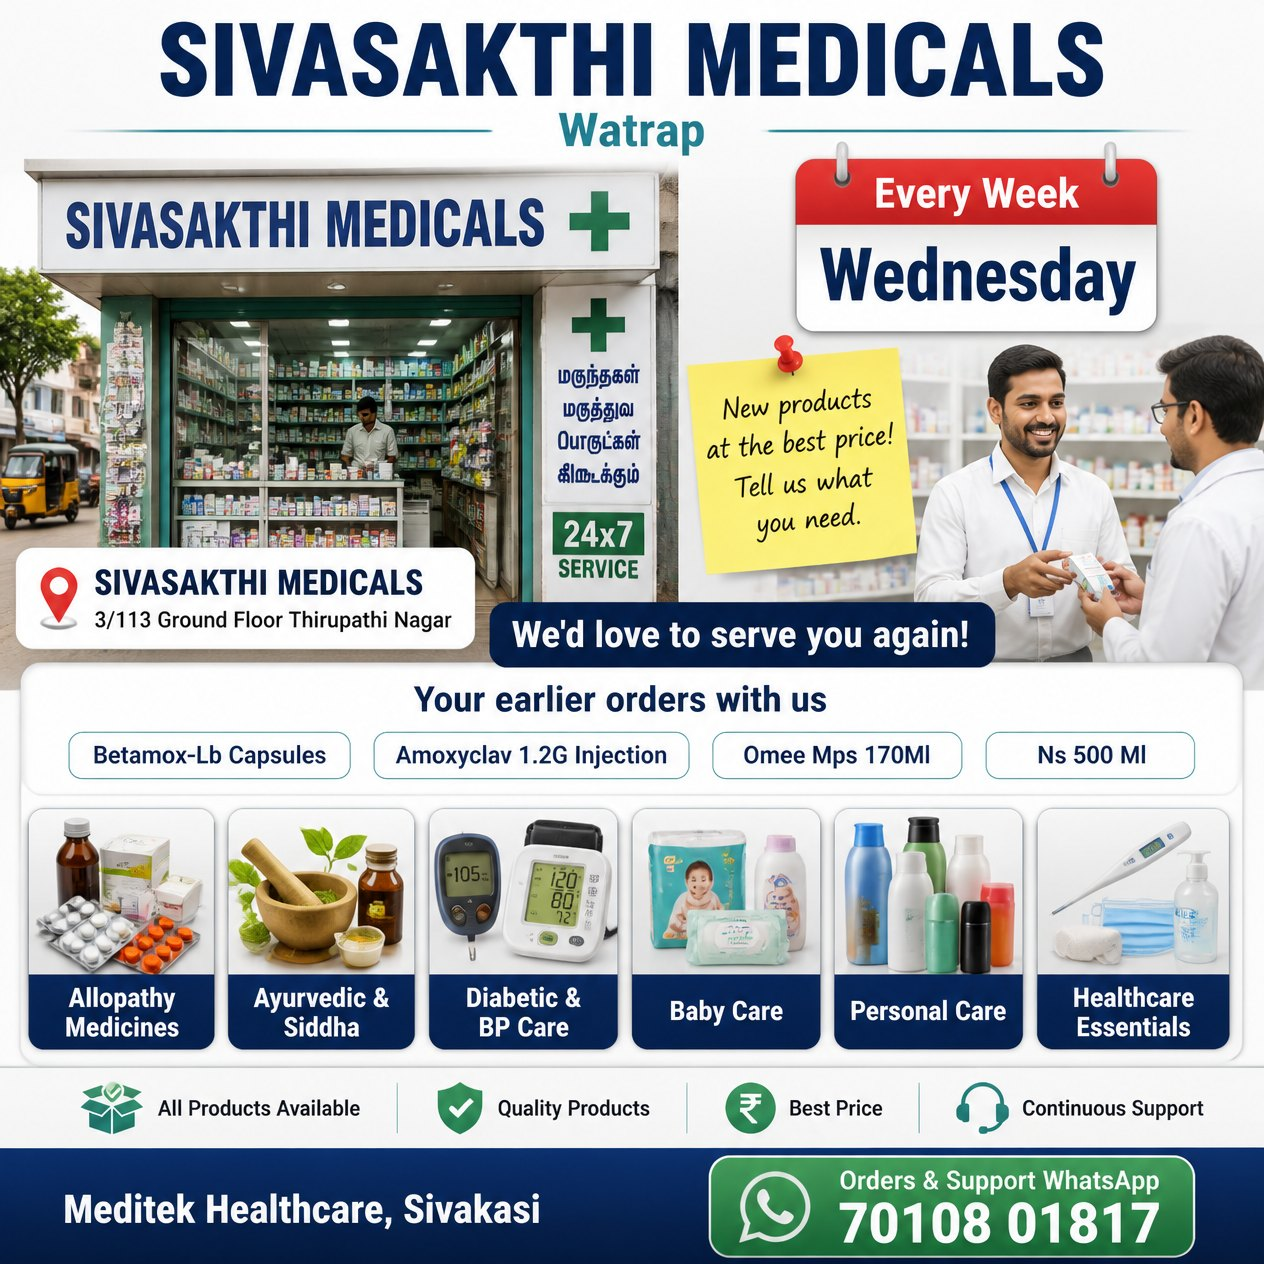
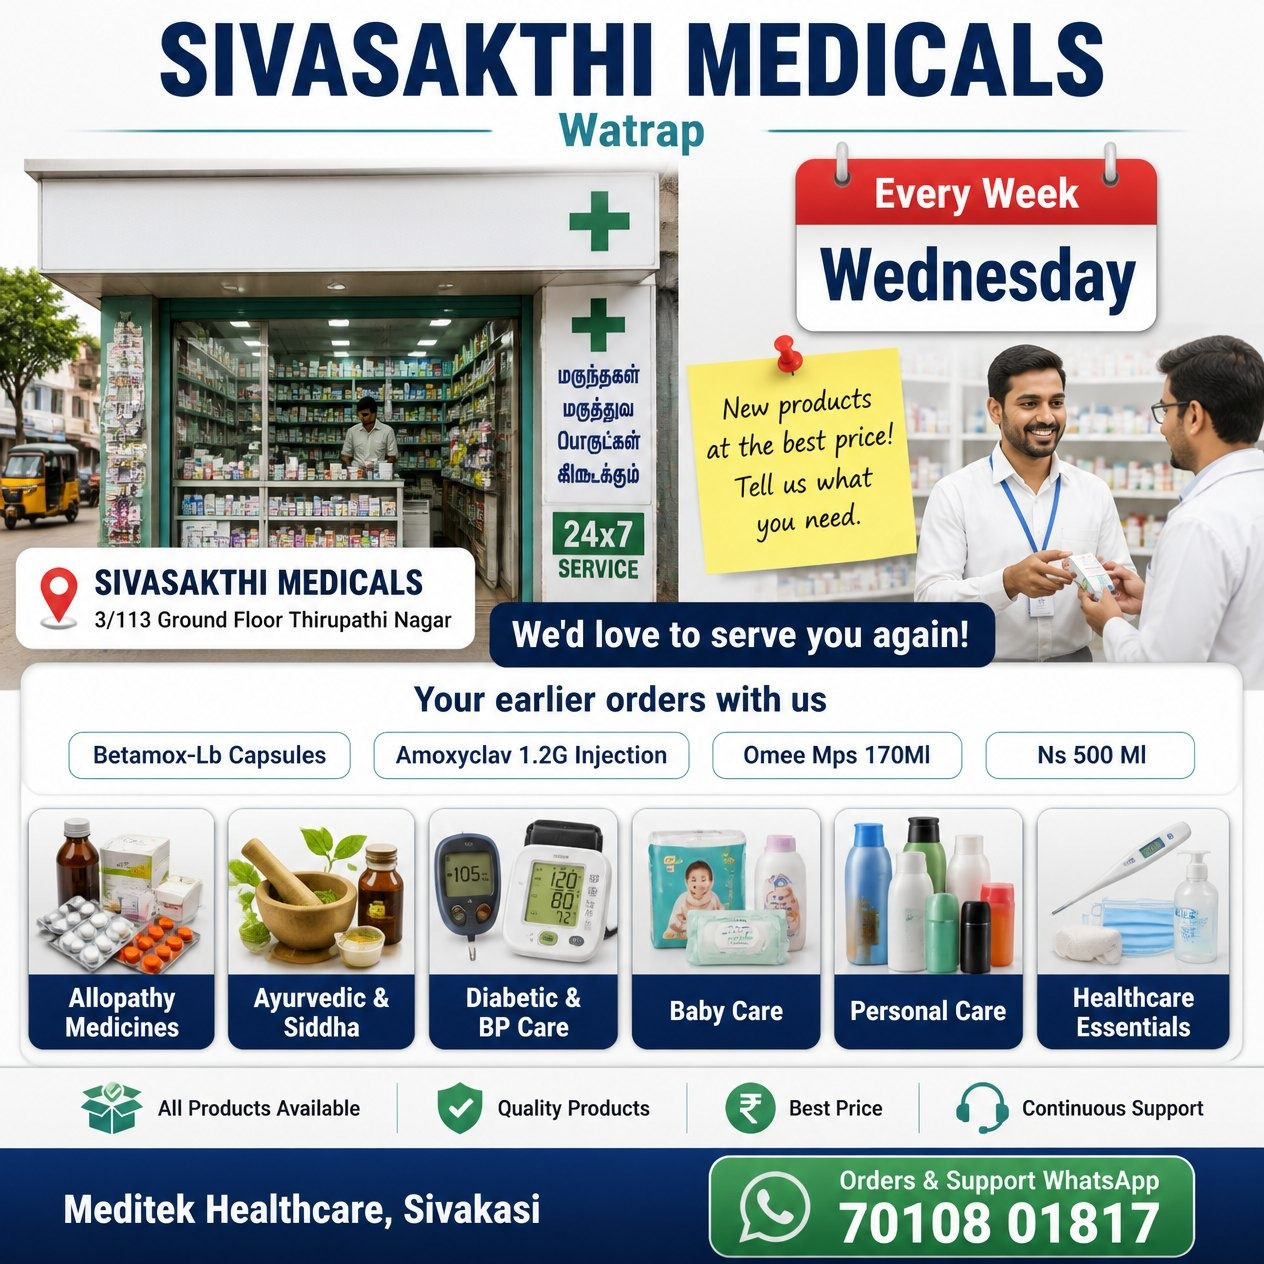
Poster: shop name drawn as a real signboard (raised letters, shadow, board lighting) on blank template boards
Claude-Session: https://claude.ai/code/session_01APWZwNBWcevbUrVLTYNY5a

Changed region(s): [[0.0309, 0.1543, 0.432, 0.216]]

diff --git a/poster.html b/poster.html
@@ -41,19 +41,53 @@ const UP = NAME.toUpperCase(), O = 'Oswald, "Arial Narrow", sans-serif', R = '"R
 const N = '#0b2a5b', TEAL = '#1f8a9a';
 const SPEC = {
   clinic: [[40, 14, 1184, 158, UP, 700, 140, O, N], [470, 166, 324, 56, TOWN, 700, 46, R, TEAL], [836, 296, 282, 66, DAY, 700, 54, R, '#111'],
-           [172, 236, 352, 122, UP, 700, 52, R, N, 'c', '#f2f4f3'], [86, 646, 368, 34, UP, 700, 28, R, N], [86, 684, 380, 24, ADDR, 500, 17, R, '#222', 'l']],
+           [86, 646, 368, 34, UP, 700, 28, R, N], [86, 684, 380, 24, ADDR, 500, 17, R, '#222', 'l']],
   hospital: [[30, 18, 900, 128, UP, 700, 112, O, N], [372, 146, 182, 42, TOWN, 700, 34, R, TEAL], [950, 152, 266, 74, DAY, 700, 56, R, '#111'],
-           [254, 246, 368, 84, UP, 700, 40, R, N], [116, 578, 388, 34, UP, 700, 26, R, N], [116, 614, 396, 26, ADDR, 500, 18, R, '#222', 'l']],
+           [116, 578, 388, 34, UP, 700, 26, R, N], [116, 614, 396, 26, ADDR, 500, 18, R, '#222', 'l']],
   dental: [[40, 12, 1184, 112, UP, 700, 100, O, N], [536, 126, 190, 44, TOWN, 700, 36, R, TEAL], [908, 244, 238, 60, DAY, 700, 46, R, '#111'],
-           [232, 204, 400, 92, UP, 700, 44, R, N], [108, 610, 340, 30, UP, 700, 22, R, N], [108, 644, 392, 24, ADDR, 500, 16, R, '#222', 'l']],
+           [108, 610, 340, 30, UP, 700, 22, R, N], [108, 644, 392, 24, ADDR, 500, 16, R, '#222', 'l']],
   vet: [[40, 8, 1184, 144, UP, 700, 128, O, N], [536, 154, 200, 48, TOWN, 700, 38, R, TEAL], [924, 254, 268, 64, DAY, 700, 50, R, '#111'],
-           [148, 228, 392, 58, UP, 700, 44, R, N], [126, 658, 392, 38, UP, 700, 26, R, N], [126, 700, 400, 22, ADDR, 500, 16, R, '#222', 'l']],
+           [126, 658, 392, 38, UP, 700, 26, R, N], [126, 700, 400, 22, ADDR, 500, 16, R, '#222', 'l']],
   pharmacy: [[60, 12, 1144, 96, UP, 700, 86, O, N], [516, 106, 232, 58, TOWN, 700, 42, R, TEAL], [808, 238, 340, 86, DAY, 700, 68, R, '#111'],
-           [56, 184, 524, 82, UP, 700, 56, O, N], [90, 536, 344, 62, UP, 700, 38, O, N], [90, 604, 370, 28, ADDR, 500, 20, R, '#222', 'l'],
+           [90, 536, 344, 62, UP, 700, 38, O, N], [90, 604, 370, 28, ADDR, 500, 20, R, '#222', 'l'],
            [492, 606, 480, 52, "We'd love to serve you!", 700, 34, R, '#fff'],
            [300, 674, 664, 46, 'Everything your shop needs, under one roof', 700, 32, R, N],
            [20, 720, 1224, 62, 'Tablets & Capsules   ·   Syrups   ·   Injections & IV Fluids   ·   Surgicals', 700, 30, R, N]]
 };
+// storefront signboard (the template photo's board is blank): [x0, y0, x1, y1, face colour, side colour, 2nd-line colour]
+const SIGN = {
+  clinic:   [176, 236, 512, 362, '#0b2a5b', '#061a3a', '#0f7a4f'],
+  pharmacy: [52, 190, 556, 256, '#0b2a5b', '#061a3a', ''],
+  hospital: [250, 240, 640, 335, '#0b2a5b', '#061a3a', '#0f7a4f'],
+  dental:   [240, 190, 616, 302, '#0b2a5b', '#061a3a', '#1f8a9a'],
+  vet:      [142, 226, 540, 316, '#0e6b47', '#07402a', '#0e6b47']
+};
+/* letters made like a real shop board: raised acrylic letters with depth, a soft shadow on the board,
+   a light-from-above face, the board's own lighting over them, and the photo's grain and softness */
+function sign(ctx) {
+  const [x0, y0, x1, y1, face, side, c2] = SIGN[CAT], w = x1 - x0, h = y1 - y0, two = !!(c2 && TOWN);
+  const L = document.createElement('canvas'); L.width = w; L.height = h; const g = L.getContext('2d');
+  const fit = (t, fam, wt, maxH, maxW) => { let s = maxH; g.font = wt + ' ' + s + 'px ' + fam; while (g.measureText(t).width > maxW && s > 10) { s--; g.font = wt + ' ' + s + 'px ' + fam; } return s; };
+  const raised = (t, cy, s, fam, wt, col, dk) => {
+    g.font = wt + ' ' + s + 'px ' + fam; g.textAlign = 'center'; g.textBaseline = 'middle';
+    const d = Math.max(2, Math.round(s / 16)), cx = w / 2;
+    g.save(); g.shadowColor = 'rgba(0,0,0,.38)'; g.shadowBlur = s / 7; g.shadowOffsetX = d * 1.2; g.shadowOffsetY = d * 1.9; g.fillStyle = dk; g.fillText(t, cx + d, cy + d); g.restore();
+    for (let i = d; i > 0; i--) { g.fillStyle = dk; g.fillText(t, cx + i * 0.8, cy + i * 0.9); }
+    g.globalAlpha = .55; g.fillStyle = '#fff'; g.fillText(t, cx - 0.8, cy - 0.8); g.globalAlpha = 1;
+    const gr = g.createLinearGradient(0, cy - s / 2, 0, cy + s / 2); gr.addColorStop(0, col); gr.addColorStop(1, dk); 
+    g.fillStyle = col; g.fillText(t, cx, cy); g.globalAlpha = .35; g.fillStyle = gr; g.fillText(t, cx, cy); g.globalAlpha = 1;
+  };
+  const padX = w * 0.04, s1 = fit(UP, O, 700, two ? h * 0.52 : h * 0.72, w - 2 * padX);
+  if (two) { const s2 = fit(TOWN, R, 700, h * 0.24, w * 0.7); raised(UP, h * 0.37, s1, O, 700, face, side); raised(TOWN, h * 0.79, s2, R, 700, c2, side); }
+  else raised(UP, h * 0.52, s1, O, 700, face, side);
+  // the board's lighting falls on the letters too (brighter at the top, a little darker at the bottom)
+  g.globalCompositeOperation = 'source-atop';
+  const lt = g.createLinearGradient(0, 0, 0, h); lt.addColorStop(0, 'rgba(255,255,255,.10)'); lt.addColorStop(1, 'rgba(0,0,0,.12)'); g.fillStyle = lt; g.fillRect(0, 0, w, h);
+  // the photo's grain
+  const id = g.getImageData(0, 0, w, h), p = id.data; for (let i = 0; i < p.length; i += 4) if (p[i + 3]) { const n = (Math.random() - .5) * 14; p[i] += n; p[i + 1] += n; p[i + 2] += n; }
+  g.putImageData(id, 0, 0); g.globalCompositeOperation = 'source-over';
+  ctx.save(); ctx.filter = 'blur(0.45px)'; ctx.drawImage(L, x0, y0); ctx.restore();
+}
 function bgOf(ctx, x, y, w, h) {             // average colour of the region's border ring
   const px = [], add = d => { for (let i = 0; i < d.length; i += 4) px.push([d[i], d[i + 1], d[i + 2]]); };
   add(ctx.getImageData(x, y, w, 2).data); add(ctx.getImageData(x, y + h - 2, w, 2).data);
@@ -63,6 +97,7 @@ function bgOf(ctx, x, y, w, h) {             // average colour of the region's b
 }
 function draw(img) {
   const cv = document.getElementById('cv'), ctx = cv.getContext('2d'); ctx.drawImage(img, 0, 0, 1264, 1264);
+  sign(ctx);
   const regs = SPEC[CAT], bgs = regs.map(r => bgOf(ctx, r[0], r[1], r[2], r[3]));
   regs.forEach((r, i) => {
     const [x, y, w, h, t, wt, max, fam, col, al, fill] = r; ctx.fillStyle = fill || bgs[i]; ctx.fillRect(x, y, w, h);
@@ -83,7 +118,7 @@ function draw(img) {
   }, 'image/jpeg', 0.9);
 }
 (document.fonts && document.fonts.load ? Promise.all([document.fonts.load('700 40px Oswald'), document.fonts.load('700 30px "Roboto Condensed"'), document.fonts.load('500 20px "Roboto Condensed"')]) : Promise.resolve())
-  .catch(() => {}).then(() => { const im = new Image(); im.onload = () => draw(im); im.src = 'tpl/' + CAT + '.jpg'; });
+  .catch(() => {}).then(() => { const im = new Image(); im.onload = () => draw(im); im.src = 'tpl/' + CAT + '.jpg?v=2'; });
 </script>
 </body>
 </html>
